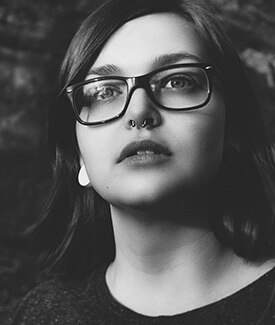
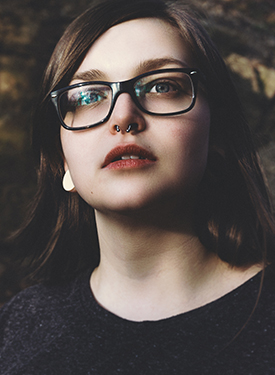
first_ready

diff --git a/css/style.css b/css/style.css
@@ -599,7 +599,11 @@ body {
   padding-top: 10px;
   text-transform: uppercase;
   outline: none;
-  border: 1px solid transparent; }
+  border: 1px solid transparent;
+  cursor: pointer; }
+
+.order-button:hover {
+  background-color: #c1401e; }
 
 .table-wrapper {
   display: -webkit-box;
@@ -713,8 +717,6 @@ body {
   -webkit-justify-content: center;
   -ms-flex-pack: center;
   justify-content: center;
-  width: 100%;
-  height: 100%;
   display: -webkit-box;
   display: -webkit-flex;
   display: -ms-flexbox;
@@ -749,7 +751,7 @@ body {
   -webkit-justify-content: space-between;
   -ms-flex-pack: justify;
   justify-content: space-between;
-  margin: 0 87px; }
+  margin: 0 90px; }
 
 .pref {
   display: -webkit-box;
@@ -765,7 +767,8 @@ body {
   -webkit-box-align: center;
   -webkit-align-items: center;
   -ms-flex-align: center;
-  align-items: center; }
+  align-items: center;
+  margin-right: -15px; }
 
 .pref__img {
   height: 90px;
@@ -776,7 +779,8 @@ body {
   font-size: 21.4px;
   color: #2f3234;
   text-align: center;
-  width: 80%; }
+  width: 80%;
+  letter-spacing: 1.2px; }
 
 .pref__text {
   font-family: Ubuntu;
@@ -784,7 +788,8 @@ body {
   font-size: 14.03px;
   color: #575959;
   text-align: center;
-  line-height: 24px; }
+  line-height: 24px;
+  white-space: 1px; }
 
 .burger {
   background-image: -moz-linear-gradient(90deg, #f9b43b 0%, #eb8c38 48%, #f9b43b 74%);
@@ -817,6 +822,23 @@ body {
   -ms-flex-wrap: nowrap;
   flex-wrap: nowrap; }
 
+.c__review {
+  width: 100%;
+  -webkit-box-pack: center;
+  -webkit-justify-content: center;
+  -ms-flex-pack: center;
+  justify-content: center;
+  display: -webkit-box;
+  display: -webkit-flex;
+  display: -ms-flexbox;
+  display: flex;
+  -webkit-box-orient: vertical;
+  -webkit-box-direction: normal;
+  -webkit-flex-direction: column;
+  -ms-flex-direction: column;
+  flex-direction: column;
+  margin: 0 auto; }
+
 .rew-wrapper {
   display: -webkit-box;
   display: -webkit-flex;
@@ -848,7 +870,9 @@ body {
   display: flex;
   position: relative;
   background-size: cover;
-  background-position: center; }
+  background-position: center;
+  -webkit-filter: grayscale(100%);
+  filter: grayscale(100%); }
 
 .review__background {
   display: none;

diff --git a/index.html b/index.html
@@ -14,7 +14,7 @@
             <div class="container">
                 <section class="header">
                     <section class="logo">
-                        <img src="images/logo.png" alt="Логотип">
+                        <a href=""><img src="images/logo.png" alt="Логотип"></a>
                     </section>
                     <section class="menu">
                         <nav class="main-menu">
@@ -90,7 +90,7 @@
             </div>
         </section>
         <section class="section reviews" id="review">
-            <div class="container c__best">
+            <div class="container c__review">
                 <section class="rew-wrapper">
                     <section class="review review1">
                         <div class="review__info">
